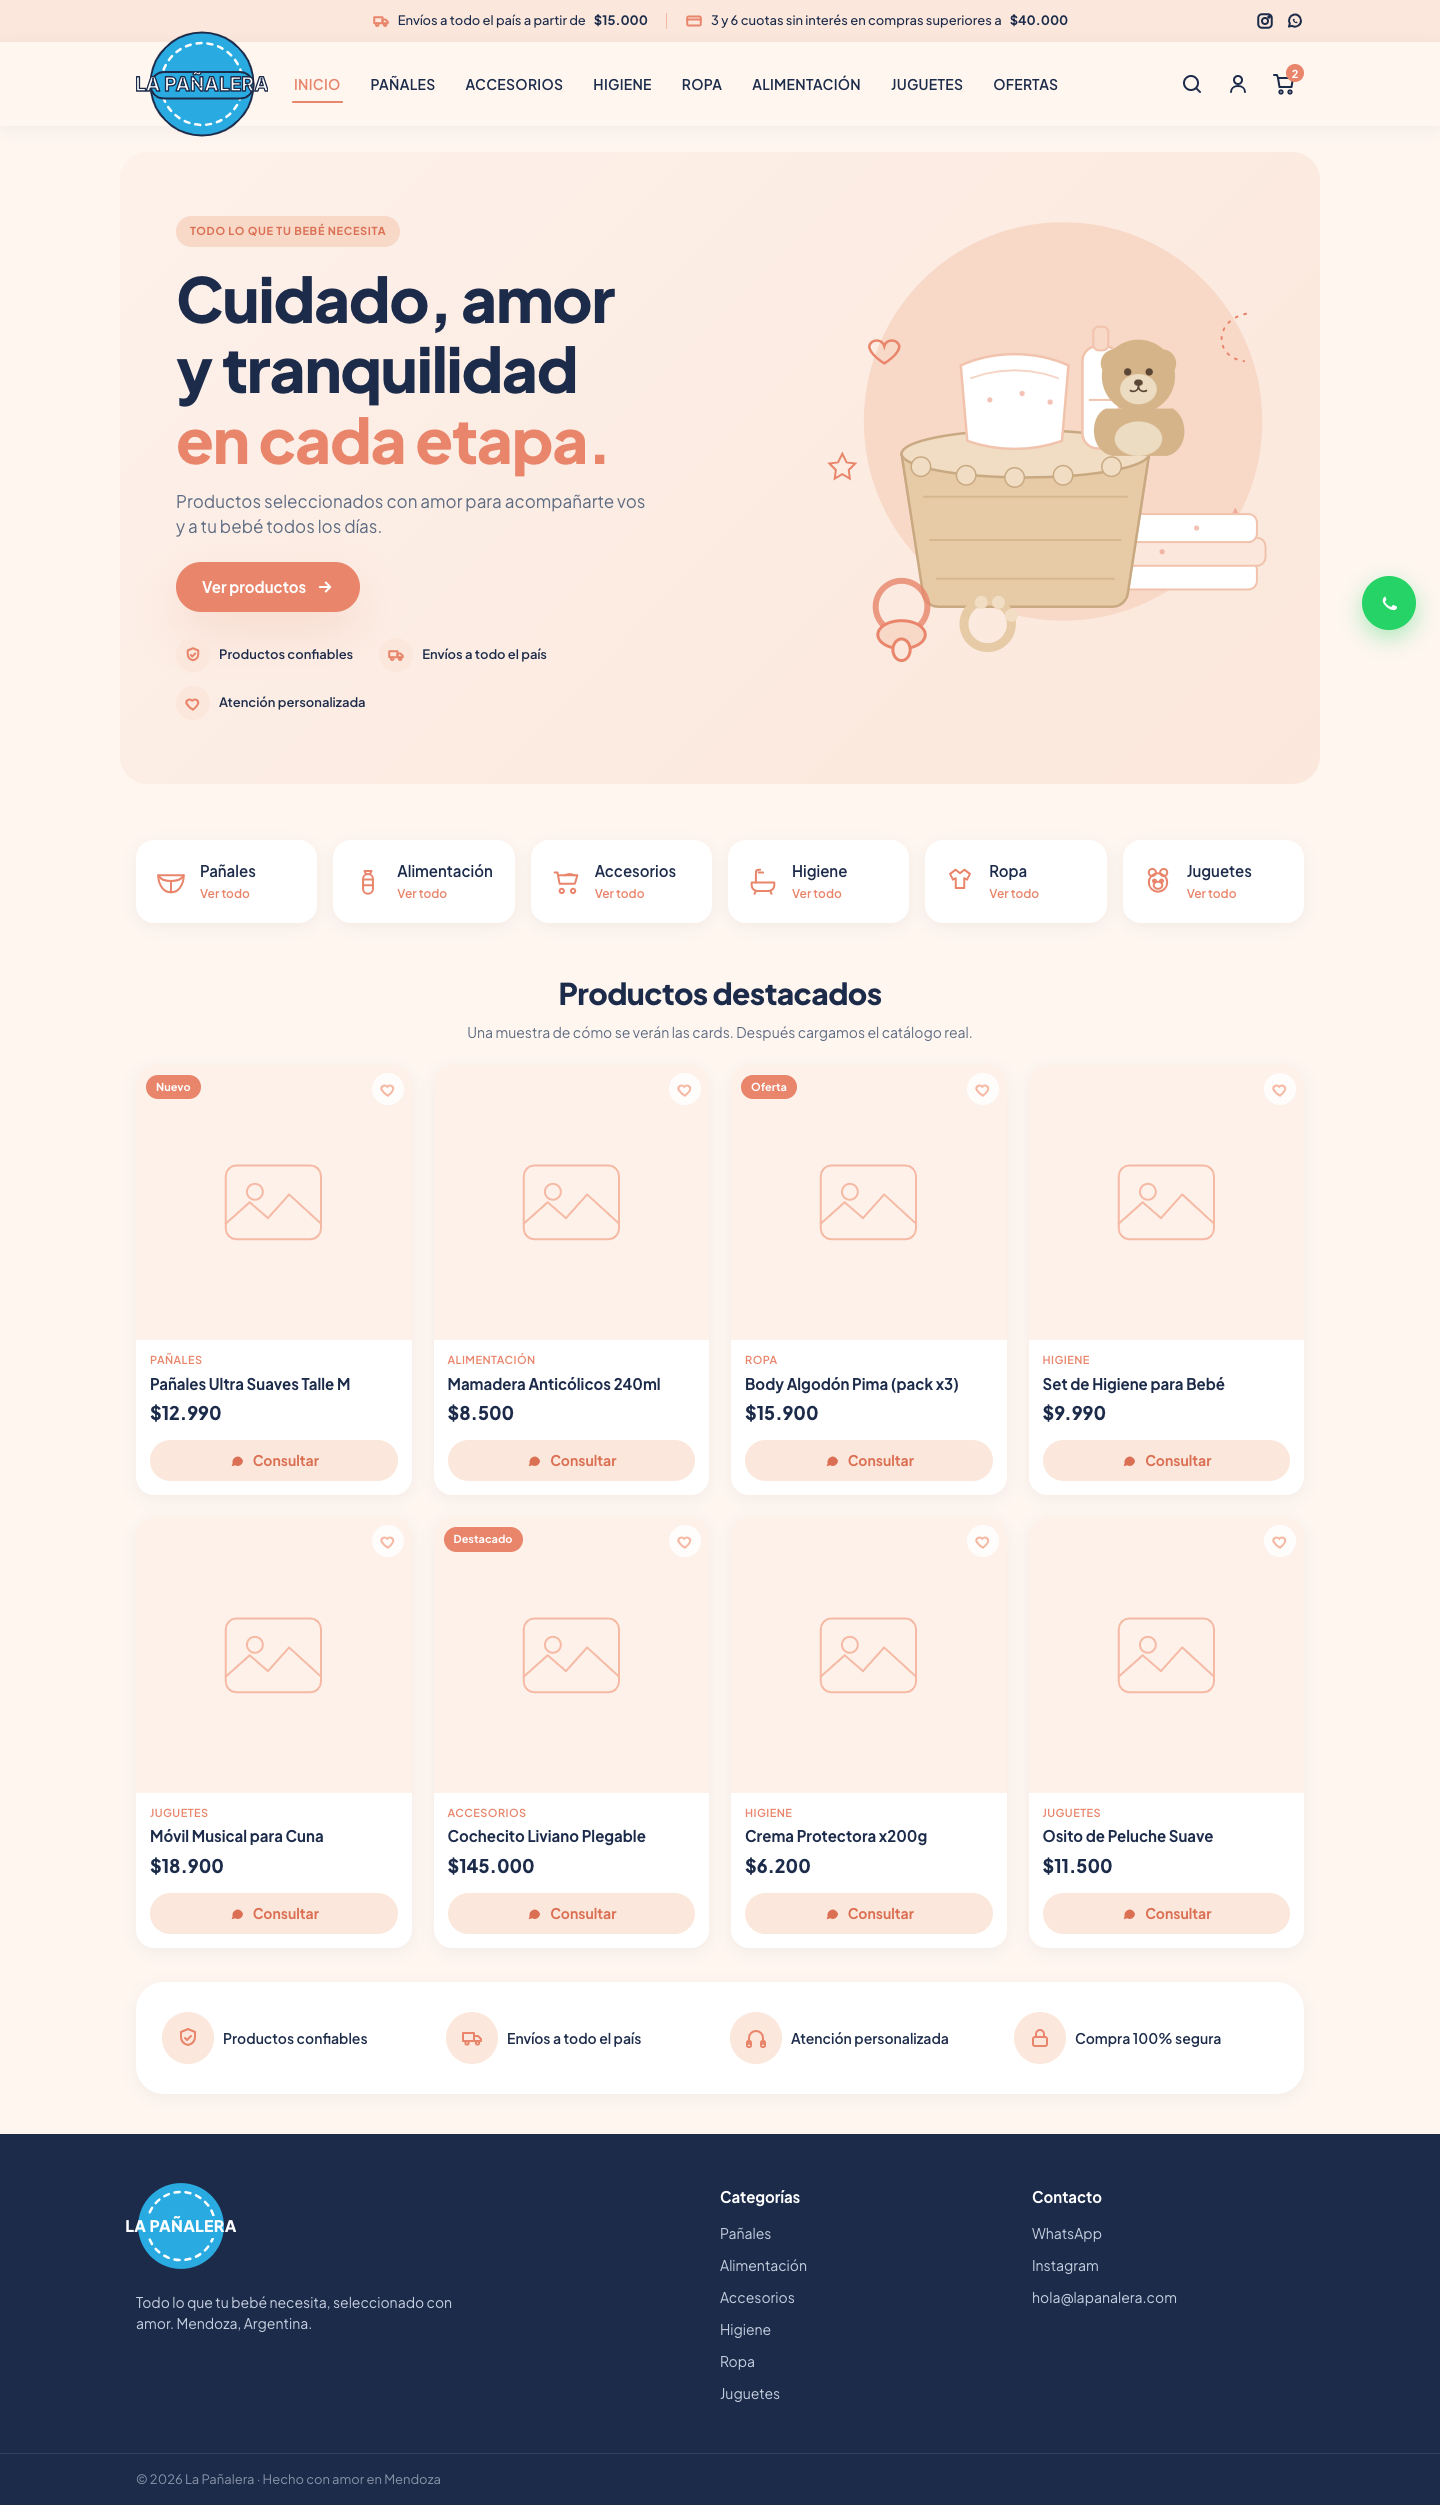
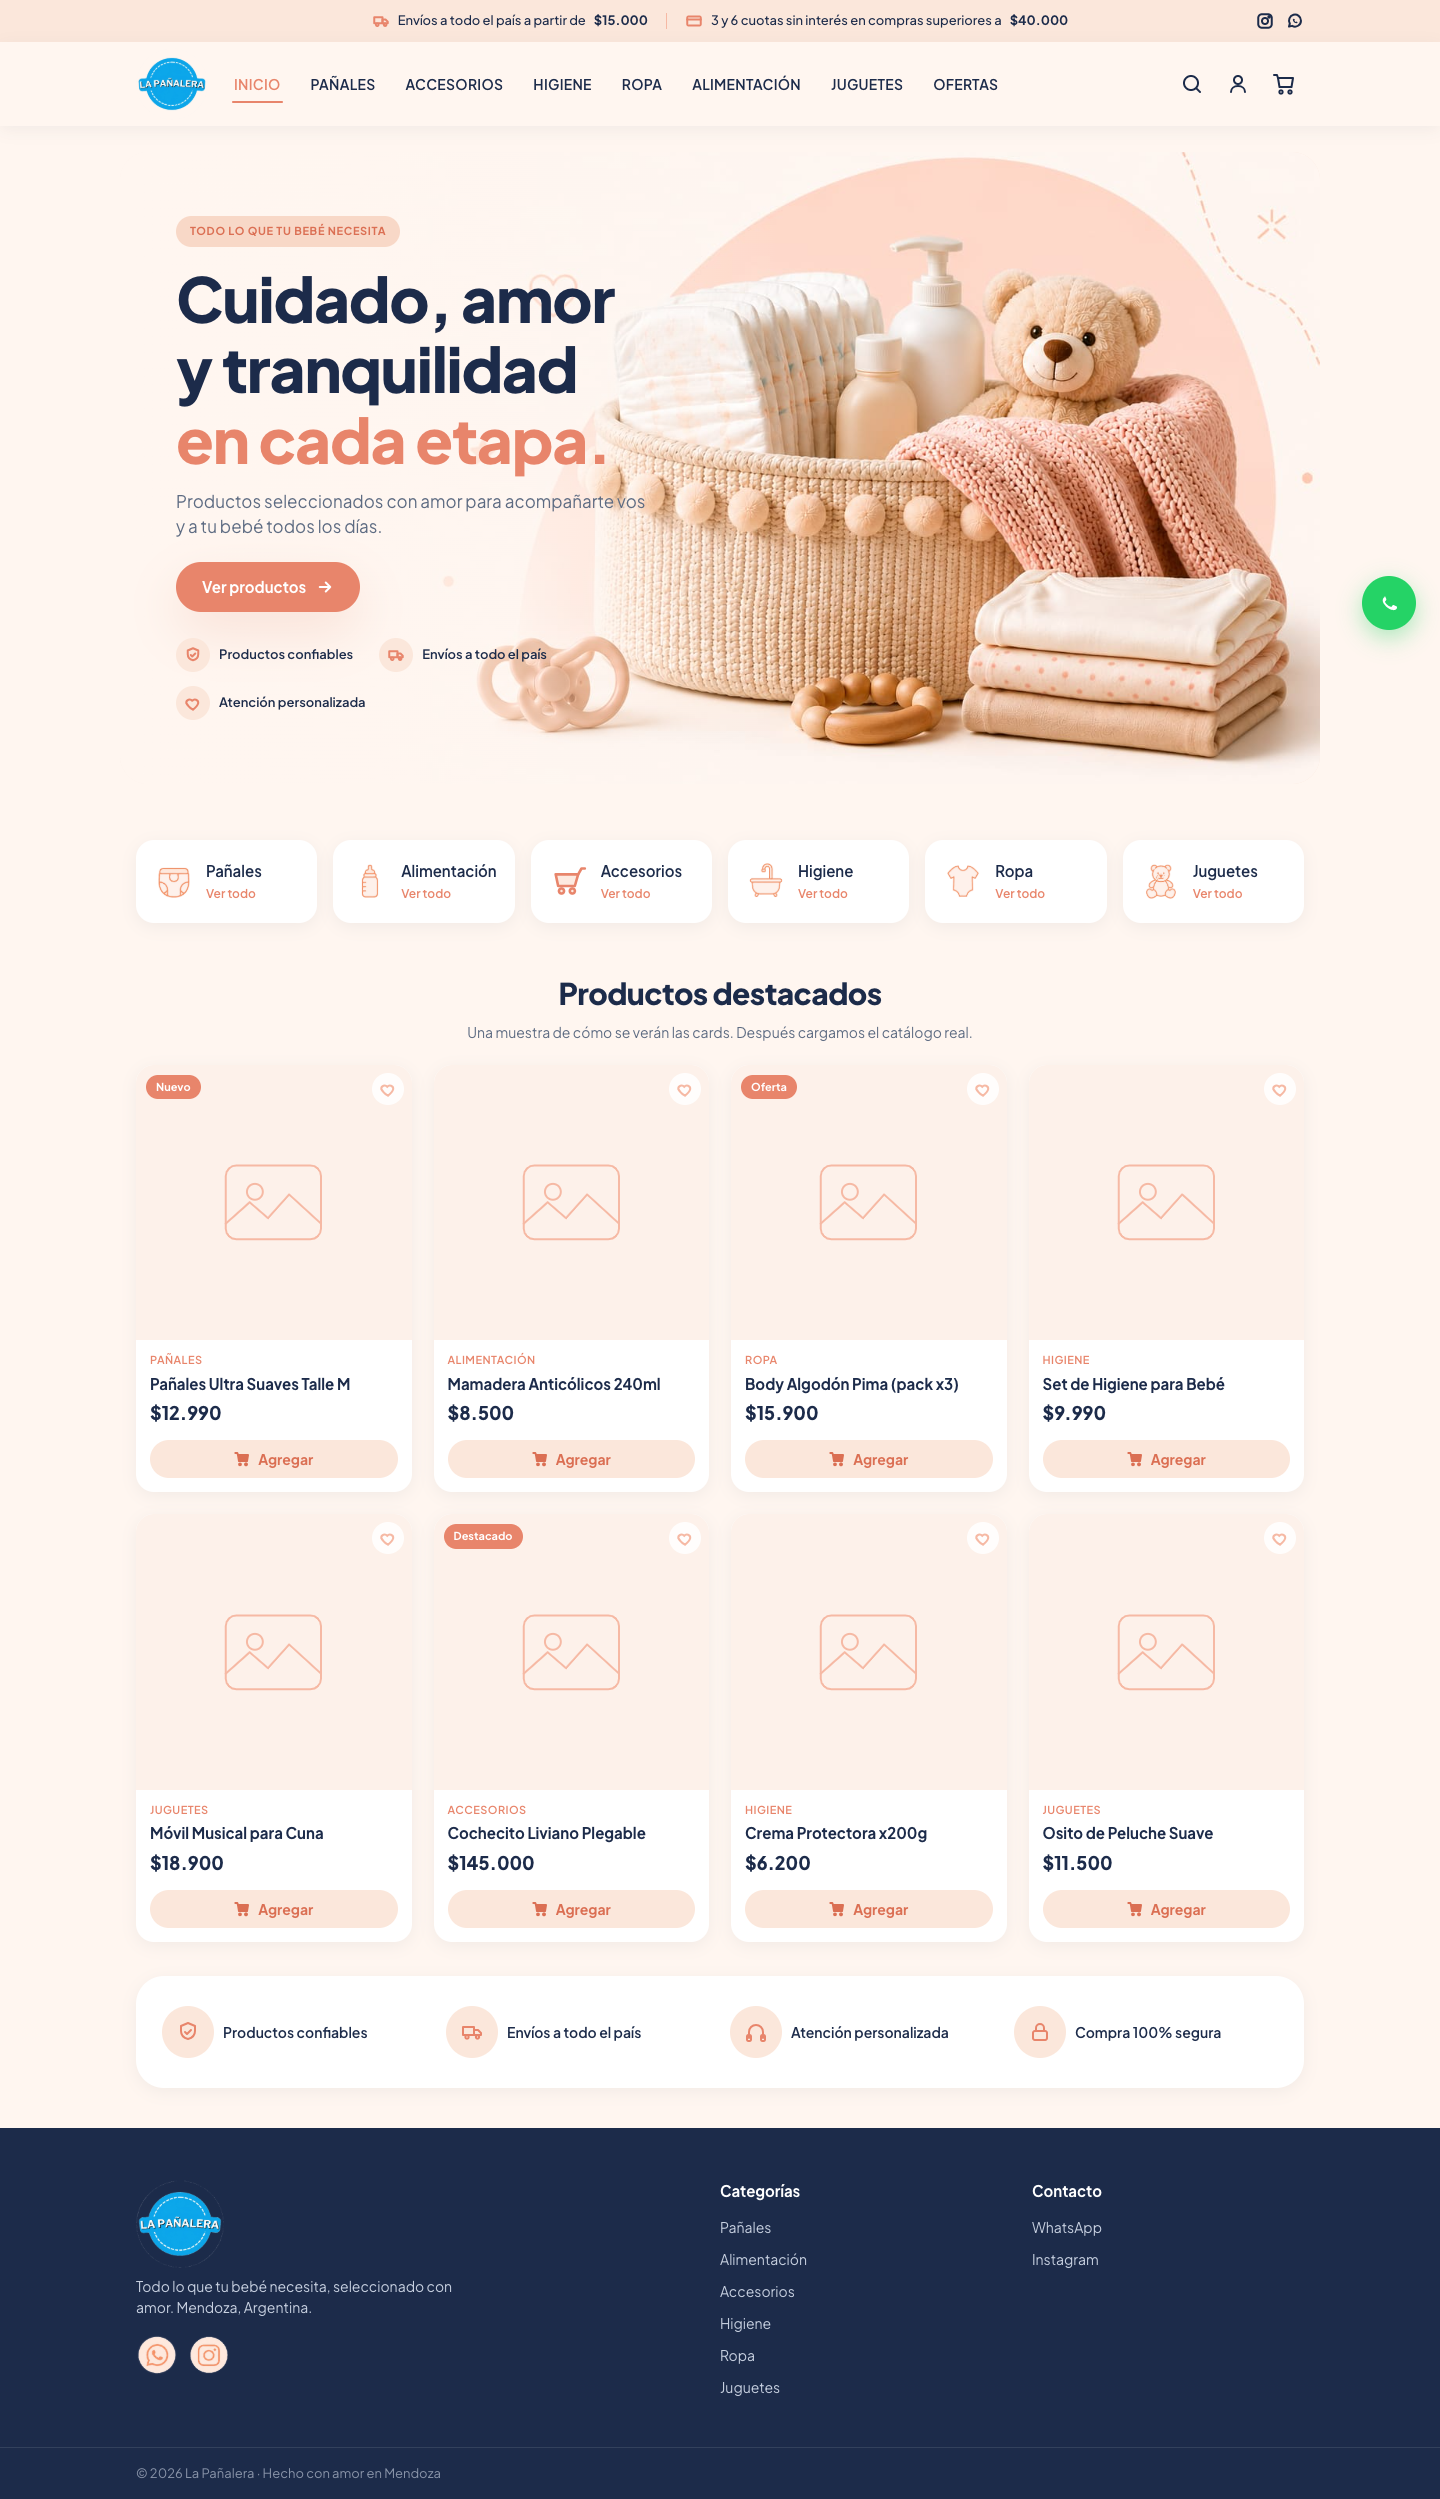
Íconos reales de rubros + sociales, carrito Accesorios y hero mobile detrás
- Rubros usan los íconos reales del cliente (assets/icons/*)
- Accesorios = carrito de compra con manubrio a la derecha (SVG espejado)
- WhatsApp/Instagram con los íconos del cliente en el footer
- Mobile: la foto del hero vuelve a ir detrás (full-bleed), recorte sin cortar el oso

diff --git a/css/styles.css b/css/styles.css
@@ -98,8 +98,9 @@ svg path, svg circle, svg rect, svg ellipse, svg line {
 .topbar__msg .ico { color: var(--accent); }
 .topbar__msg--2, .topbar__sep, .topbar__social { display: none; }
 .topbar__social { gap: 12px; }
-.topbar__social a { color: var(--ink); transition: color .2s var(--ease); }
-.topbar__social a:hover { color: var(--accent); }
+.topbar__social a { color: var(--ink); display: inline-flex; transition: transform .2s var(--ease); }
+.topbar__social a:hover { transform: translateY(-1px); }
+.social-ico { width: 26px; height: 26px; object-fit: contain; }
 
 /* =========================================================
    HEADER
@@ -268,14 +269,14 @@ svg path, svg circle, svg rect, svg ellipse, svg line {
 .hero__inner {
   background: linear-gradient(135deg, var(--peach-50) 0%, var(--peach-100) 100%);
   border-radius: var(--radius-lg);
-  padding: 26px 22px;
+  padding: 30px 22px;
   position: relative;
   overflow: hidden;
+  min-height: 420px;
   display: flex;
-  flex-direction: column;
-  gap: 22px;
+  align-items: center;
 }
-.hero__content { position: relative; z-index: 2; max-width: 100%; order: 1; }
+.hero__content { position: relative; z-index: 2; max-width: 60%; }
 .pill {
   display: inline-block; background: var(--peach-200); color: var(--accent-dark);
   font-size: 11px; font-weight: 700; letter-spacing: .06em; text-transform: uppercase;
@@ -300,14 +301,19 @@ svg path, svg circle, svg rect, svg ellipse, svg line {
 .btn--soft { background: var(--peach-100); color: var(--accent-dark); width: 100%; justify-content: center; }
 .btn--soft:hover { background: var(--peach-200); }
 
-/* foto del hero — MOBILE: banner debajo del texto (apilado, sin superposición) */
+/* foto del hero — detrás del texto (full-bleed) */
 .hero__pic { display: contents; }
 .hero__photo {
-  order: 2; display: block; width: 100%; height: 208px;
-  object-fit: cover; object-position: center 40%;
-  border-radius: var(--radius);
+  position: absolute; inset: 0; width: 100%; height: 100%;
+  object-fit: cover; object-position: 66% center; z-index: 0;
 }
-.hero__scrim { display: none; }
+/* degradé crema a la izquierda para que el texto se lea sobre la foto */
+.hero__scrim {
+  position: absolute; inset: 0; z-index: 1; pointer-events: none;
+  background: linear-gradient(100deg,
+    var(--cream) 0%, rgba(255,246,240,.92) 28%,
+    rgba(255,246,240,.5) 50%, rgba(255,246,240,0) 74%);
+}
 
 /* =========================================================
    CATEGORÍAS
@@ -327,8 +333,8 @@ svg path, svg circle, svg rect, svg ellipse, svg line {
   transition: background .2s var(--ease), transform .18s var(--ease);
 }
 .cat:hover { background: var(--peach-50); transform: translateY(-2px); }
-.cat__ico { color: var(--accent); }
-.cat__ico svg { width: 42px; height: 42px; }
+.cat__ico { color: var(--accent); display: grid; place-items: center; }
+.cat__ico svg, .cat__ico img { width: 46px; height: 46px; object-fit: contain; }
 .cat__name { font-size: 14px; font-weight: 600; color: var(--ink); }
 .cat__link { display: none; font-size: 12px; color: var(--accent); font-weight: 600; }
 .cats__all { margin-top: 4px; }
@@ -399,6 +405,10 @@ svg path, svg circle, svg rect, svg ellipse, svg line {
 .footer__inner { display: grid; grid-template-columns: 1fr; gap: 28px; padding-top: 36px; padding-bottom: 28px; }
 .footer__brand .logo__img { width: 88px; height: 88px; margin-bottom: 8px; }
 .footer__brand p { font-size: 14px; max-width: 34ch; }
+.footer__social { display: flex; gap: 10px; margin-top: 16px; }
+.footer__social a { display: inline-flex; transition: transform .2s var(--ease); }
+.footer__social a:hover { transform: translateY(-2px); }
+.footer__social img { width: 42px; height: 42px; object-fit: contain; }
 .footer__col h3 { color: #fff; font-size: 15px; margin-bottom: 12px; }
 .footer__col li { margin-bottom: 8px; }
 .footer__col a { font-size: 14px; transition: color .2s var(--ease); }
@@ -491,7 +501,7 @@ svg path, svg circle, svg rect, svg ellipse, svg line {
     flex-direction: row; justify-content: flex-start; gap: 12px;
     background: var(--white); box-shadow: var(--shadow-sm); padding: 20px 18px;
   }
-  .cat__ico svg { width: 34px; height: 34px; }
+  .cat__ico svg, .cat__ico img { width: 40px; height: 40px; }
   .cat__body { display: flex; flex-direction: column; align-items: flex-start; gap: 2px; }
   .cat__name { font-size: 15px; }
   .cat__link { display: inline-flex; align-items: center; gap: 4px; white-space: nowrap; }

diff --git a/js/main.js b/js/main.js
@@ -9,14 +9,25 @@
 // Número con código de país, sin "+", sin espacios ni guiones.
 const WHATSAPP = "5492612512059";
 
-/* --------- ÍCONOS (SVG de línea) ---------- */
+/* --------- ÍCONOS DE RUBROS (imágenes reales del cliente) ---------- */
+const catImg = (file) => `<img class="cat__img" src="assets/icons/${file}.png" alt="" />`;
+// Accesorios: carrito de compra con el manubrio a la derecha (espejado)
+const CART_RIGHT =
+  '<svg class="cat__svg" viewBox="0 0 48 48" aria-hidden="true">' +
+    '<g transform="translate(48,0) scale(-1,1)">' +
+      '<path d="M13 16 H40 L37 30 H17 Z" fill="#fdeae0" stroke="#e8856b" stroke-width="2.6" stroke-linejoin="round"/>' +
+      '<path d="M13 16 L9 9 H5" fill="none" stroke="#e8856b" stroke-width="2.6" stroke-linecap="round" stroke-linejoin="round"/>' +
+      '<circle cx="20" cy="36" r="3" fill="#fdeae0" stroke="#e8856b" stroke-width="2.6"/>' +
+      '<circle cx="33" cy="36" r="3" fill="#fdeae0" stroke="#e8856b" stroke-width="2.6"/>' +
+    '</g>' +
+  '</svg>';
 const ICONS = {
-  panales: '<svg viewBox="0 0 48 48"><path d="M6 16c12 0 24 0 36 0 0 14-8 24-18 24S6 30 6 16z"/><path d="M6 16c4 6 8 8 18 8s14-2 18-8"/><path d="M24 24v16"/></svg>',
-  alimentacion: '<svg viewBox="0 0 48 48"><rect x="17" y="14" width="14" height="28" rx="7"/><path d="M19 10h10l-2 4h-6z"/><path d="M17 22h14M17 30h14"/></svg>',
-  accesorios: '<svg viewBox="0 0 48 48"><path d="M8 12h4l3 16h20a2 2 0 0 0 2-1.6L40 16H15"/><circle cx="18" cy="38" r="3"/><circle cx="34" cy="38" r="3"/><path d="M22 16a14 14 0 0 1 14 0"/></svg>',
-  higiene: '<svg viewBox="0 0 48 48"><path d="M8 26h32v4a8 8 0 0 1-8 8H16a8 8 0 0 1-8-8z"/><path d="M14 26V12a4 4 0 0 1 4-4h2"/><path d="M18 12h6"/><path d="M14 38l-2 4M34 38l2 4"/></svg>',
-  ropa: '<svg viewBox="0 0 48 48"><path d="M18 8l6 5 6-5 8 6-4 8-4-2v14H18V20l-4 2-4-8z"/></svg>',
-  juguetes: '<svg viewBox="0 0 48 48"><circle cx="16" cy="12" r="5"/><circle cx="32" cy="12" r="5"/><circle cx="24" cy="26" r="13"/><ellipse cx="24" cy="30" rx="6" ry="5"/><circle cx="19" cy="24" r="2" fill="currentColor"/><circle cx="29" cy="24" r="2" fill="currentColor"/></svg>',
+  panales:      catImg("panales"),
+  alimentacion: catImg("alimentacion"),
+  accesorios:   CART_RIGHT,
+  higiene:      catImg("higiene"),
+  ropa:         catImg("ropa"),
+  juguetes:     catImg("juguetes"),
 };
 
 /* --------- CATEGORÍAS ---------- */
@@ -138,6 +149,8 @@ function setupWhatsApp() {
   $("#footerWa").href = general;
   const tw = $("#topbarWa");
   if (tw) tw.href = general;
+  const fwi = $("#footerWaIcon");
+  if (fwi) fwi.href = general;
 }
 
 /* --------- AVISO FLOTANTE (toast) ---------- */

diff --git a/index.html b/index.html
@@ -188,6 +188,10 @@
           <img class="logo__img" src="assets/logo.png" alt="La Pañalera" width="1052" height="1052" />
         </span>
         <p>Todo lo que tu bebé necesita, seleccionado con amor. Mendoza, Argentina.</p>
+        <div class="footer__social">
+          <a href="#" id="footerWaIcon" target="_blank" rel="noopener" aria-label="WhatsApp"><img src="assets/icons/whatsapp.png" alt="WhatsApp" /></a>
+          <a href="https://www.instagram.com/lapanaleradelmercado" target="_blank" rel="noopener" aria-label="Instagram"><img src="assets/icons/instagram.png" alt="Instagram" /></a>
+        </div>
       </div>
       <div class="footer__col">
         <h3>Categorías</h3>

diff --git a/docs/PROGRESO.md b/docs/PROGRESO.md
@@ -50,12 +50,23 @@ sitio/
 - [ ] Cargar **catálogo real** de productos (con fotos y precios reales).
 
 ## Notas de diseño
-- Hero usa **foto real** del cliente (`assets/hero.jpeg`). En mobile se sirve un recorte
-  enfocado (`assets/hero-mobile.jpeg`) vía `<picture>`: en celular la foto va como banner
-  debajo del texto (apilado) para que el texto/botones NO se superpongan con la canasta
-  ni el chupete; en desktop la foto es fondo full-bleed con el texto encima sobre la crema.
-- Instagram conectado (header + footer): https://www.instagram.com/lapanaleradelmercado
+- **Íconos de rubros:** imágenes reales del cliente en `assets/icons/` (recortadas de
+  `iconos.jpeg` con PIL, fondo transparente). Mapa: panales, alimentacion, higiene, ropa,
+  juguetes. **Accesorios** NO usa el cochecito: usa un **carrito de compra con el manubrio
+  a la derecha** (SVG espejado, en `js/main.js` const `CART_RIGHT`).
+- **Íconos sociales:** `assets/icons/whatsapp.png` e `instagram.png` se usan en el **footer**
+  (sobre el navy lucen bien). En la barra superior se dejaron íconos de línea coral porque
+  los de durazno se lavaban sobre el fondo durazno.
+- **Hero:** foto real `assets/hero.jpeg` (desktop, full-bleed de fondo + scrim crema a la
+  izquierda con el texto encima). En **mobile** la foto también va **detrás** (full-bleed)
+  usando un recorte `assets/hero-mobile.jpeg` (recortado del lado derecho, sin cortar el
+  osito). El chupete puede quedar un poco tapado por el texto (aceptado por el cliente).
+- Instagram conectado (footer): https://www.instagram.com/lapanaleradelmercado
 - Sin email en la página (a pedido del cliente).
+
+## GitHub (token)
+- El token se guarda FUERA del repo en `~/Desktop/La Pañalera/.gh_token` (no se versiona).
+  El cliente pidió NO borrarlo: vamos a trabajar varios días.
 
 ## Decisiones
 - HTML/CSS/JS vanilla, sin frameworks (fácil de mantener).
